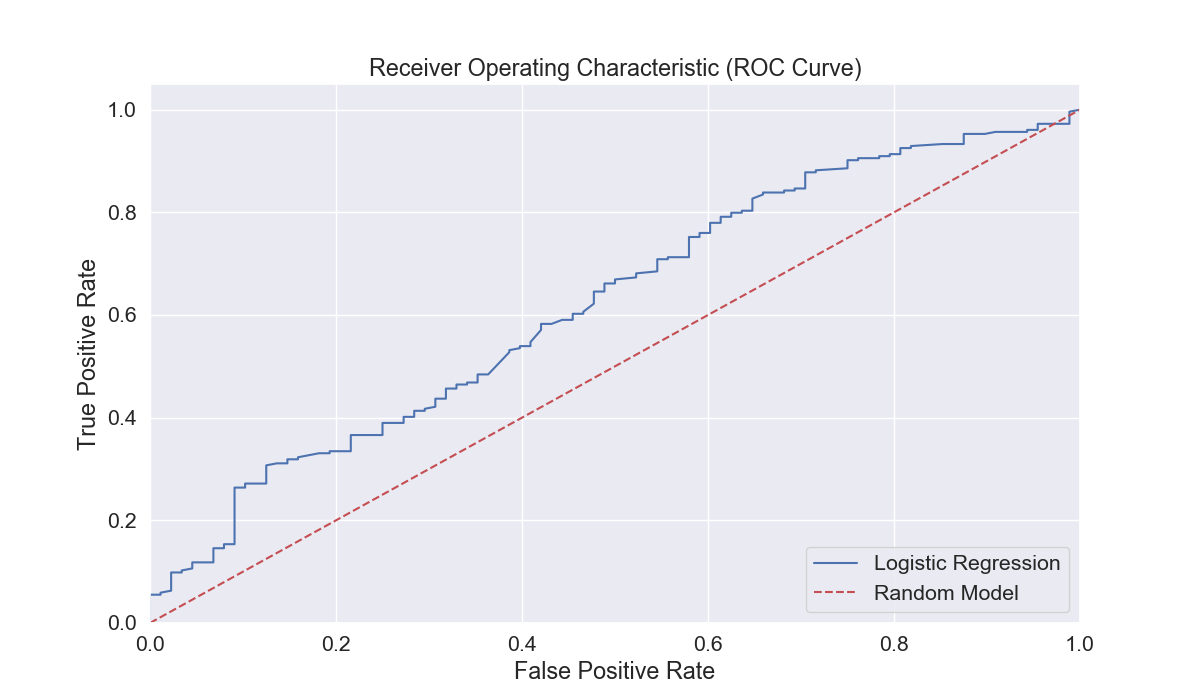
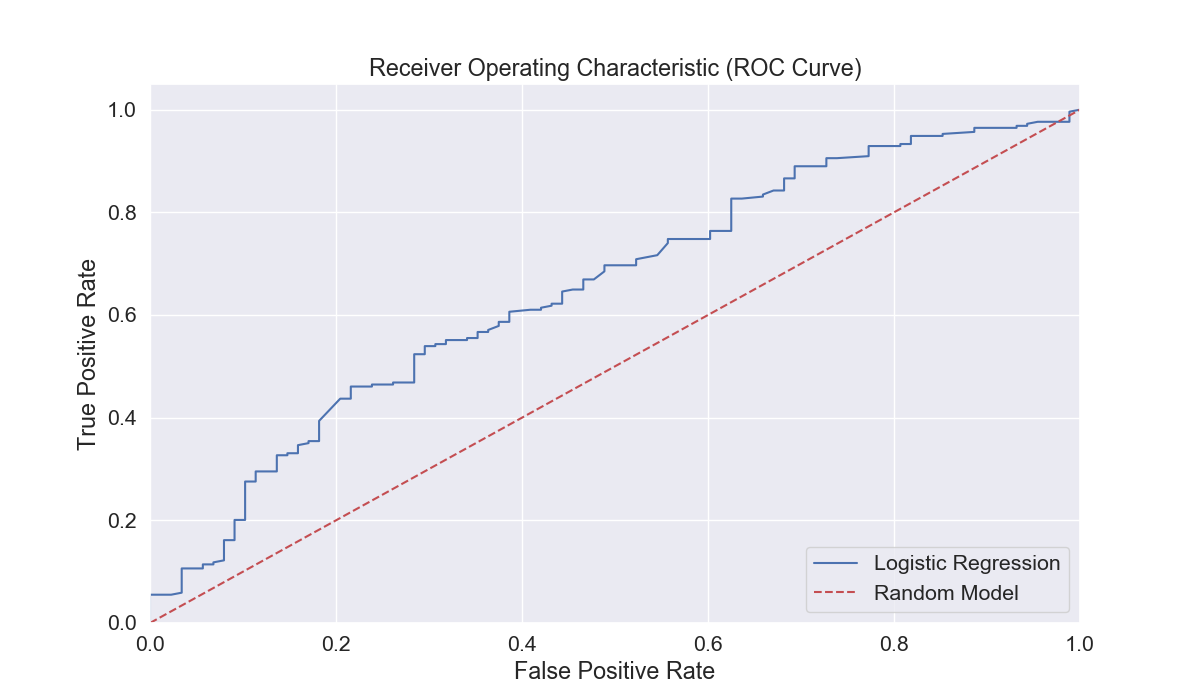
Change plots

diff --git a/RCDB_Web_Scraper_&_logistic_regression.py b/RCDB_Web_Scraper_&_logistic_regression.py
@@ -122,6 +122,7 @@ df = df.drop_duplicates()
 df = df.dropna(thresh=8, axis=0)
 
 #plot boxplots for numeric values
+plt.figure(figsize=(10,6))
 plt.subplot(1,6,1)
 boxplot = df.boxplot(column='Inversions')
 plt.subplot(1,6,2)
@@ -158,17 +159,17 @@ for names in column_names_to_normalise:
     df[names] = df[names].fillna((df[names].mean()))    
     
 #normalise data (a better model was obtained without normalisation)
-#nums = df[column_names_to_normalise].values
-#min_max_scaler = MinMaxScaler()
-#x_scaled = min_max_scaler.fit_transform(nums)
-#df_temp = pd.DataFrame(x_scaled, columns=column_names_to_normalise, index = df.index)
-#df[column_names_to_normalise] = df_temp
+nums = df[column_names_to_normalise].values
+min_max_scaler = MinMaxScaler()
+x_scaled = min_max_scaler.fit_transform(nums)
+df_temp = pd.DataFrame(x_scaled, columns=column_names_to_normalise, index = df.index)
+df[column_names_to_normalise] = df_temp
 
 #reorganise index
-df = df.reset_index()
+df = df.reset_index(drop=True)
 
 #Save processed Data
-df.to_csv("Processed_Data.csv", index_col = 0)
+df.to_csv("Processed_Data.csv")
 
 #Define features (X) and labels (Y)
 X = df[column_names_to_normalise]
@@ -199,7 +200,7 @@ plt.show()
 logit_roc_auc = roc_auc_score(y_test, logreg.predict(X_test))
 fpr, tpr, thresholds = roc_curve(y_test, logreg.predict_proba(X_test)[:,1])
 plt.figure(figsize=(12,7))
-plt.plot(fpr, tpr, label='Logistic Regression')
+plt.plot(fpr, tpr, label='Logistic Regression')    
 plt.plot([0, 1], [0, 1],'r--', label='Random Model')
 plt.xlim([0.0, 1.0])
 plt.ylim([0.0, 1.05])
